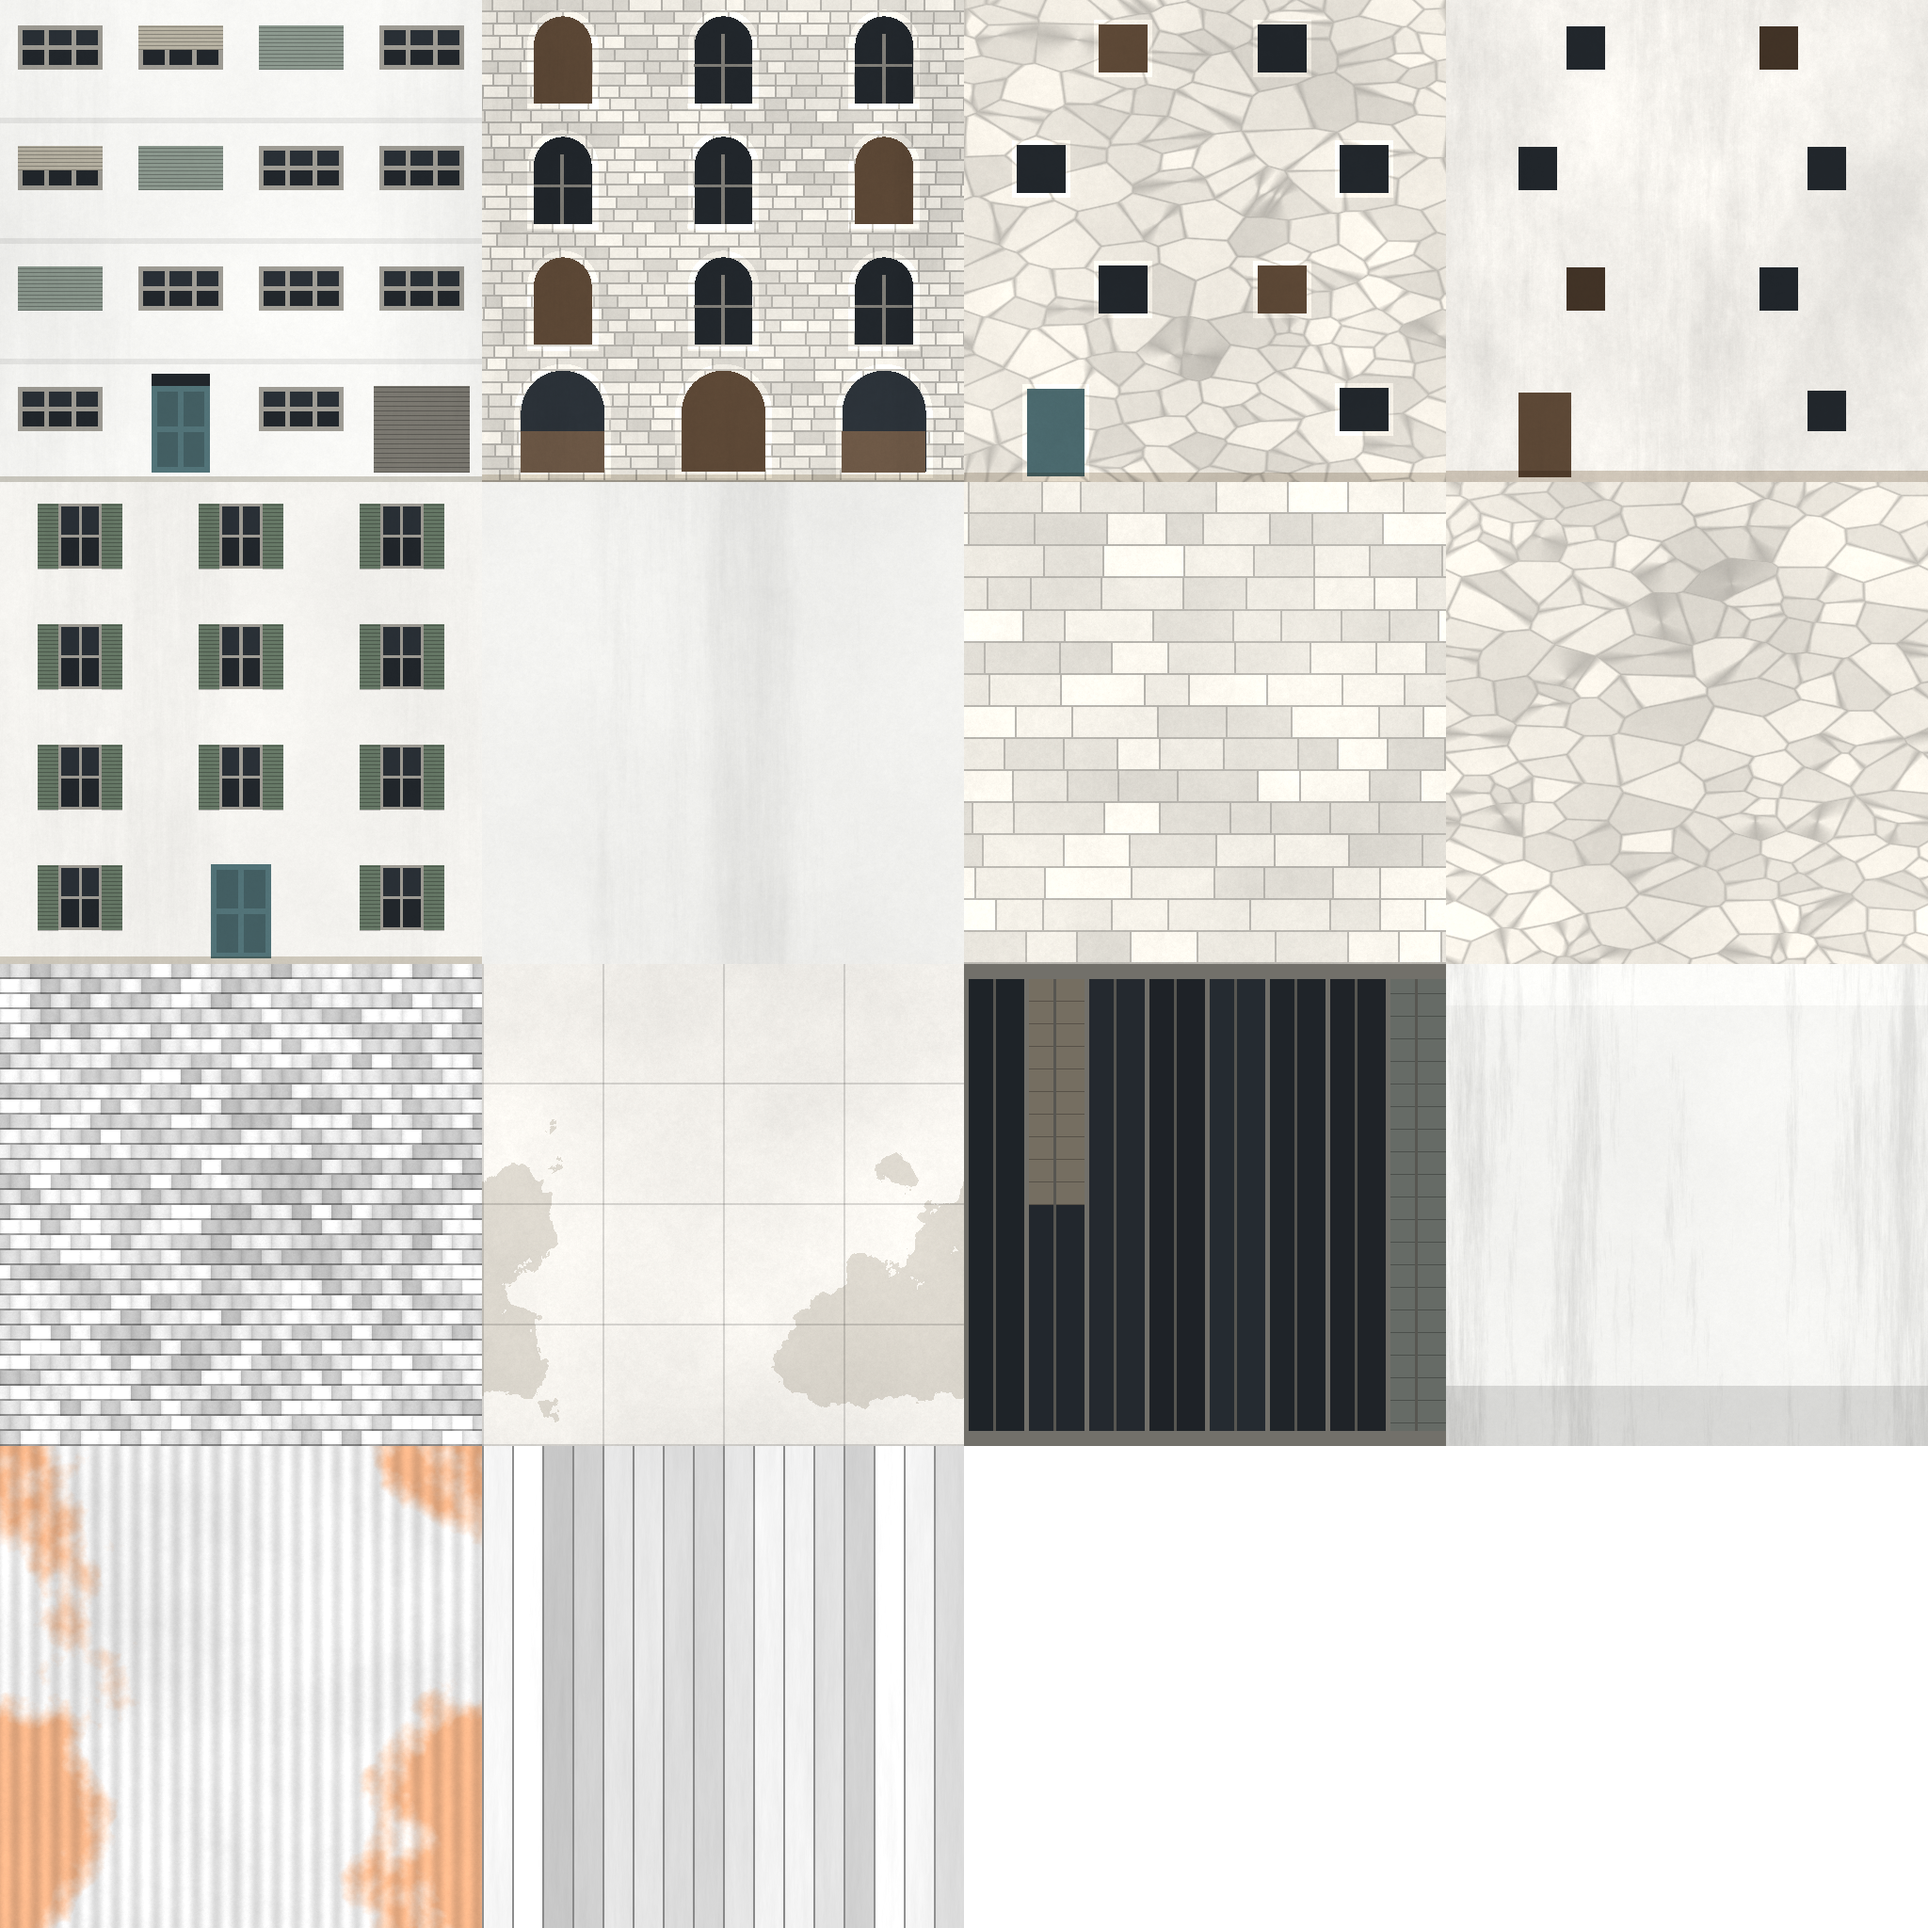
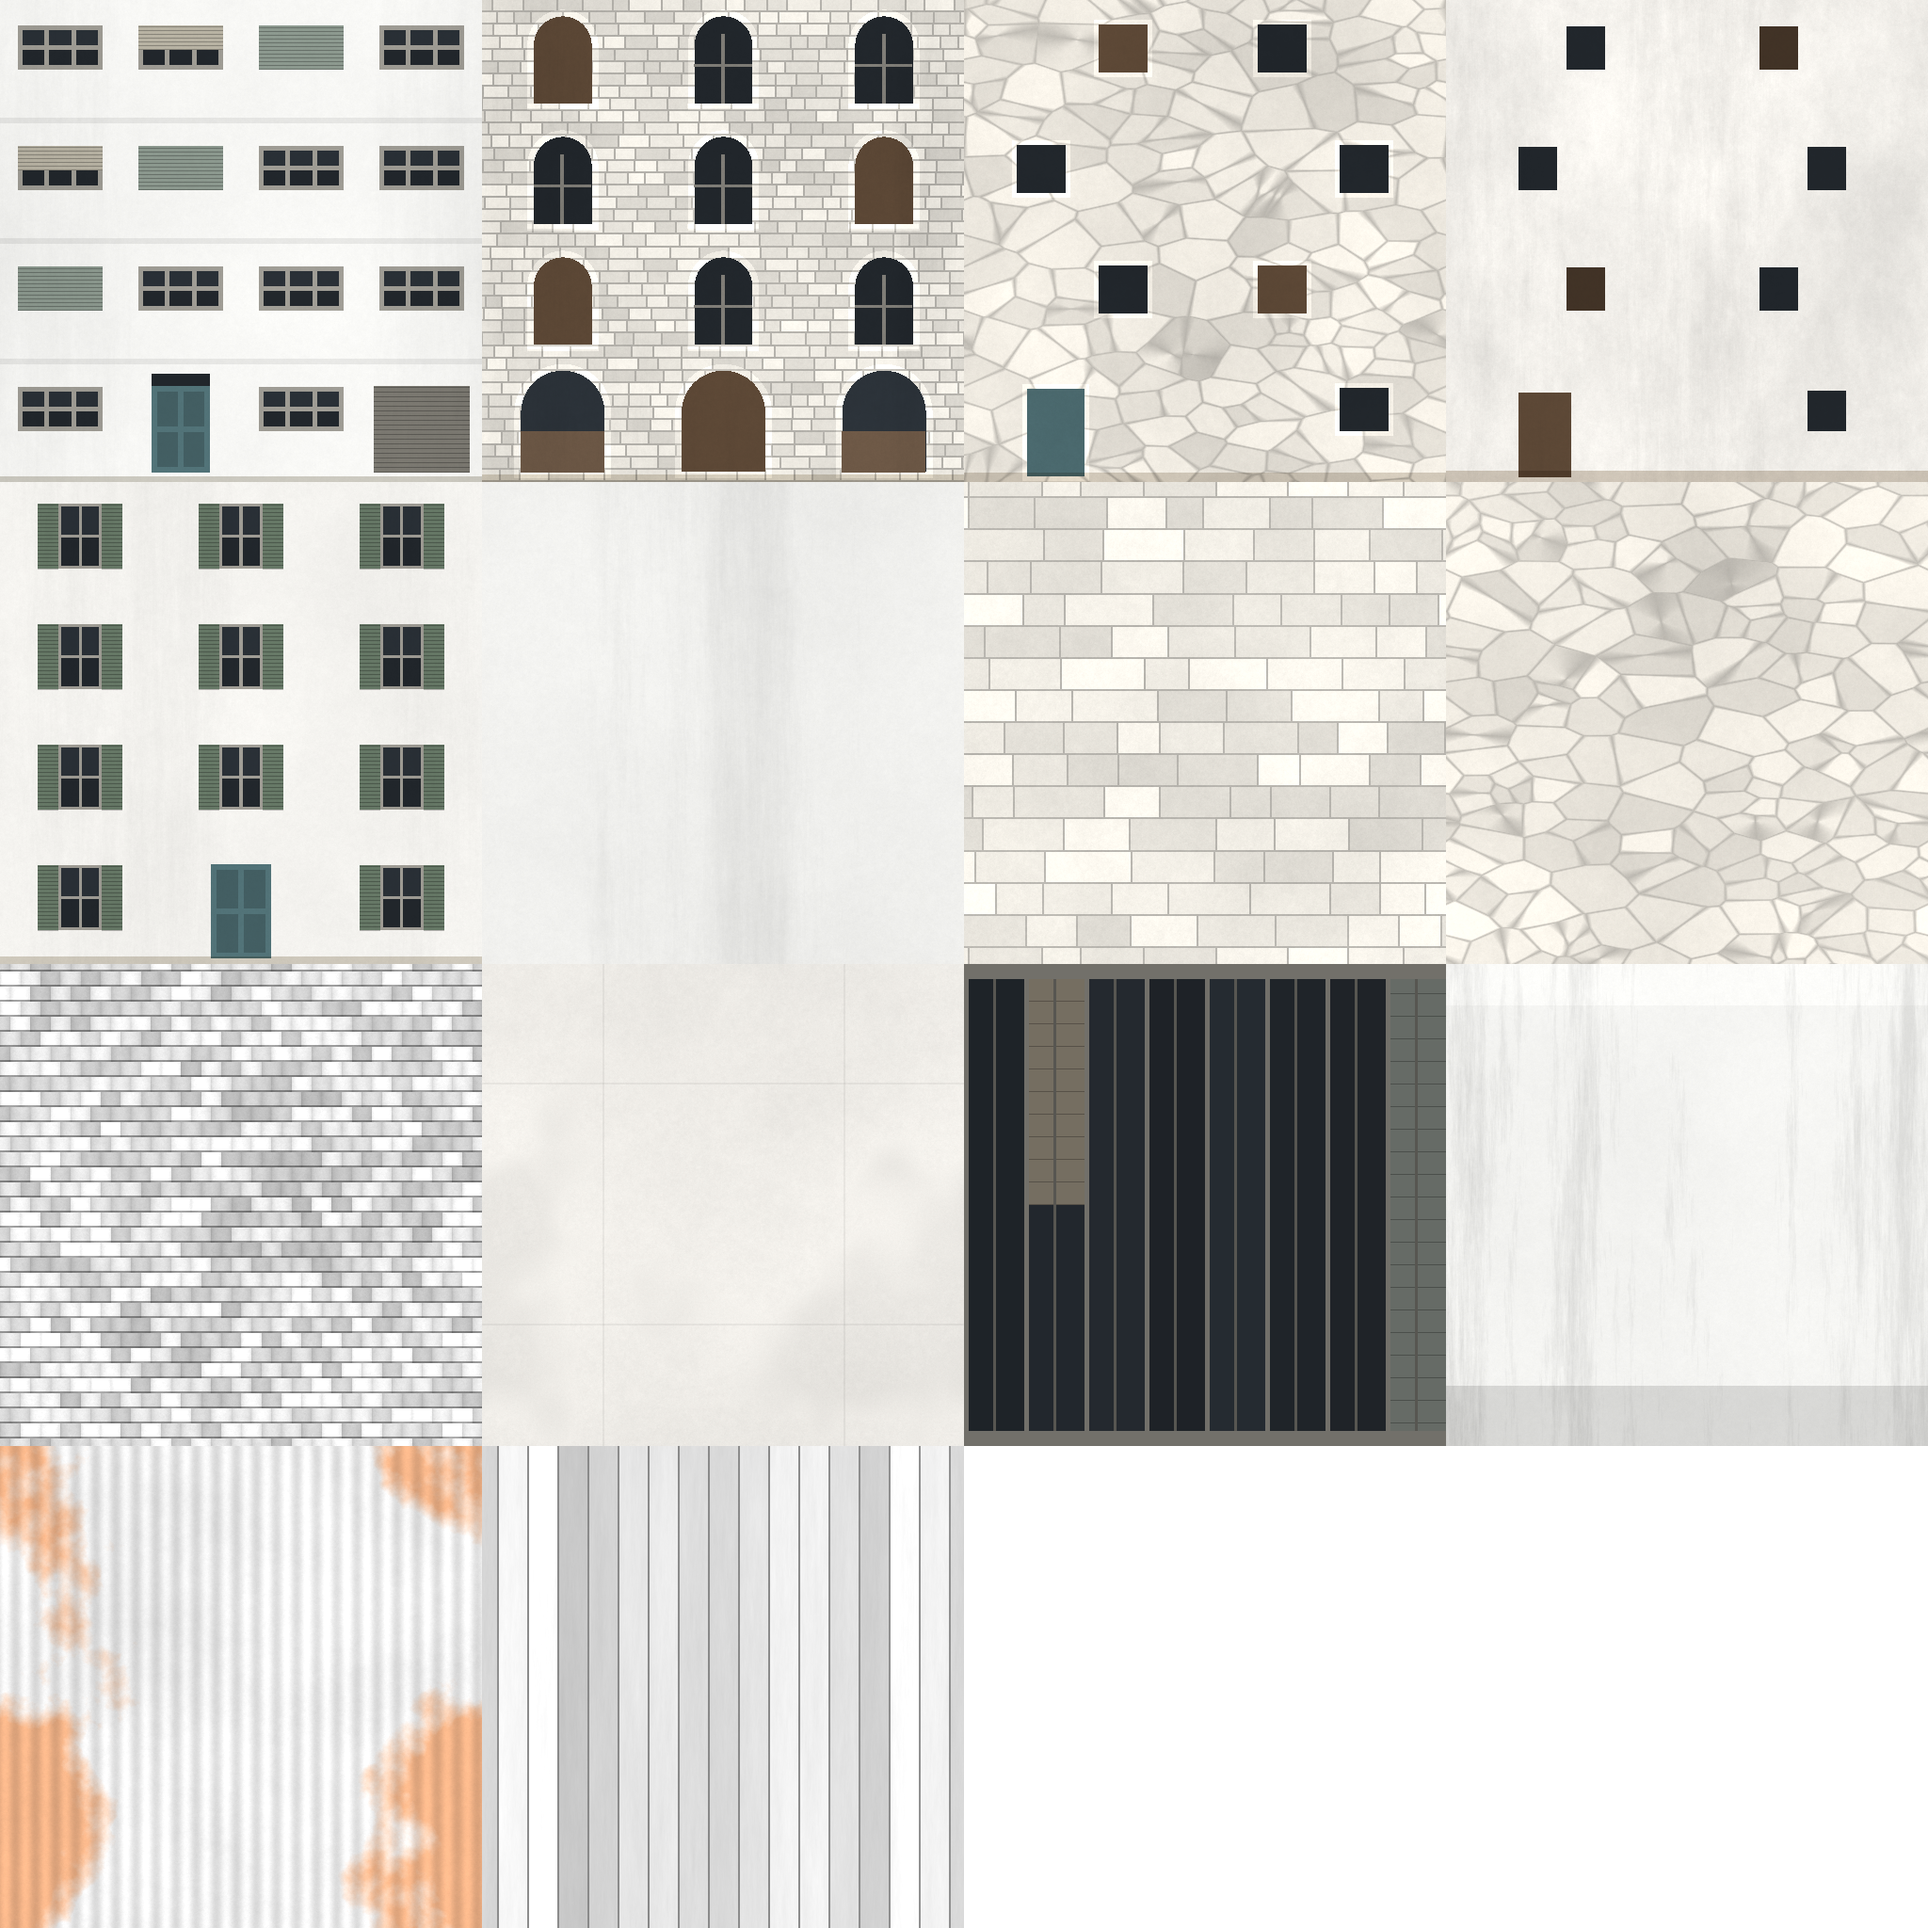
Map kits: calmer flat roofs; atlas cells seam inside a course (Refs #2428)

Changed region(s): [[0.25, 0.75, 0.5, 1.0], [0.0, 0.5, 0.25, 0.75], [0.5, 0.25, 0.75, 0.5]]

diff --git a/asset-sources/kit-atlas/make_kit_atlas.py b/asset-sources/kit-atlas/make_kit_atlas.py
@@ -318,7 +318,8 @@ def plaster() -> np.ndarray:
 
 
 def ashlar() -> np.ndarray:
-    a = np.repeat(coursed_stone(71, 34)[..., None], 3, axis=2) * rgb(1.0, 0.985, 0.95)
+    # Rolled half a course, so the cell's edges fall inside a course: its seam is no joint.
+    a = np.roll(np.repeat(coursed_stone(71, 34)[..., None], 3, axis=2), 17, axis=0) * rgb(1.0, 0.985, 0.95)
     return normalise(grain(a, 72, 0.03, 0.024), 0.90)
 
 
@@ -342,18 +343,18 @@ def roof_tile() -> np.ndarray:
     fy, fx = ry - np.floor(ry), cx - np.floor(cx)
     k = tone[r, c] * (0.86 + 0.14 * np.sin(np.pi * fx) ** 0.6)     # the tile's crown a little paler than its side
     k *= np.where(fy < 0.12, 0.62, 1.0)
-    a = np.repeat(k[..., None], 3, axis=2)
+    a = np.roll(np.repeat(k[..., None], 3, axis=2), N // (2 * rows), axis=0)   # the seam inside a row, not on a gap
     return normalise(grain(a, 92, 0.05, 0.03), 0.84)
 
 
 def flat_roof() -> np.ndarray:
     """A limed terrace: patched, seamed in big bays, a few darker repairs."""
     a = fill(rgb(0.96, 0.95, 0.93))
-    a = grain(a, 101, 0.05, 0.02)
-    for x in range(0, N, N // 4):
-        a[:, x:x + 2] *= 0.86
-        a[x:x + 2, :] *= 0.86
-    a[(noise(102, 1.8) > 0.42)] *= rgb(0.88, 0.87, 0.85)
+    a = grain(a, 101, 0.035, 0.018)
+    a *= (1.0 - 0.05 * np.clip((noise(102, 1.8) - 0.1) * 2.0, 0.0, 1.0))[..., None]
+    for x in range(N // 4, N, N // 2):
+        a[:, x:x + 2] *= 0.95
+        a[x:x + 2, :] *= 0.95
     return normalise(a, 0.92)
 
 
@@ -401,10 +402,12 @@ def planks() -> np.ndarray:
     rng = np.random.default_rng(141)
     a = np.ones((N, N))
     w = N // 16
+    tones = rng.uniform(0.84, 1.08, 16)
+    tones[8:] += tones[:8].mean() - tones[8:].mean()   # the cell's two halves weigh the same: no drift across it
     for i in range(16):
-        a[:, i * w:(i + 1) * w] = rng.uniform(0.84, 1.08)
+        a[:, i * w:(i + 1) * w] = tones[i]
         a[:, i * w:i * w + 2] = 0.58
-    a = a * (1.0 + 0.05 * noise(142, 1.2, (0.6, 6.0)))
+    a = np.roll(a, w // 2, axis=1) * (1.0 + 0.05 * noise(142, 1.2, (0.6, 6.0)))
     return normalise(np.repeat(a[..., None], 3, axis=2), 0.88)
 
 

diff --git a/unity/Assets/Tests/EditMode/KitAtlasShots.cs b/unity/Assets/Tests/EditMode/KitAtlasShots.cs
@@ -123,8 +123,11 @@ public class KitAtlasShots
         foreach (var (city, yaw) in new[] { ("tel_aviv", 0f), ("jerusalem", 0f), ("haifa", 0f), ("jaffa", 0f) })
             foreach (var km in new[] { 31f, 16f, 8f })
                 yield return Take(FormattableString.Invariant($"{city}-{km:0}km"), CentreOf(city), km * 1000f, yaw);
-        yield return Take("tel_aviv-low-6km", CentreOf("tel_aviv", new Vector2(-900f, -1400f)), 6000f, 30f);
-        yield return Take("jerusalem-low-6km", CentreOf("jerusalem", new Vector2(600f, -1100f)), 6000f, 30f);
+        yield return Take("tel_aviv-low-6km", CentreOf("tel_aviv", new Vector2(2500f, 1500f)), 6000f, 30f);
+        // Tal Heuberger's clock tower and minaret in Jaffa beside Tel Aviv's first blocks.
+        yield return Take("tel_aviv-tal-8km", CentreOf("tel_aviv", new Vector2(-300f, -1300f)), 8000f, 30f);
+        yield return Take("jerusalem-west-8km", CentreOf("jerusalem", new Vector2(-2600f, -300f)), 8000f, 20f);
+        yield return Take("jerusalem-old-8km", CentreOf("jerusalem", new Vector2(2300f, -2200f)), 8000f, 20f);
         // Tel Aviv's edge towards its neighbours, where the kit's blocks meet Tal Heuberger's models.
         yield return Take("tel_aviv-edge-12km", CentreOf("tel_aviv", new Vector2(4200f, -1800f)), 12000f);
     }
